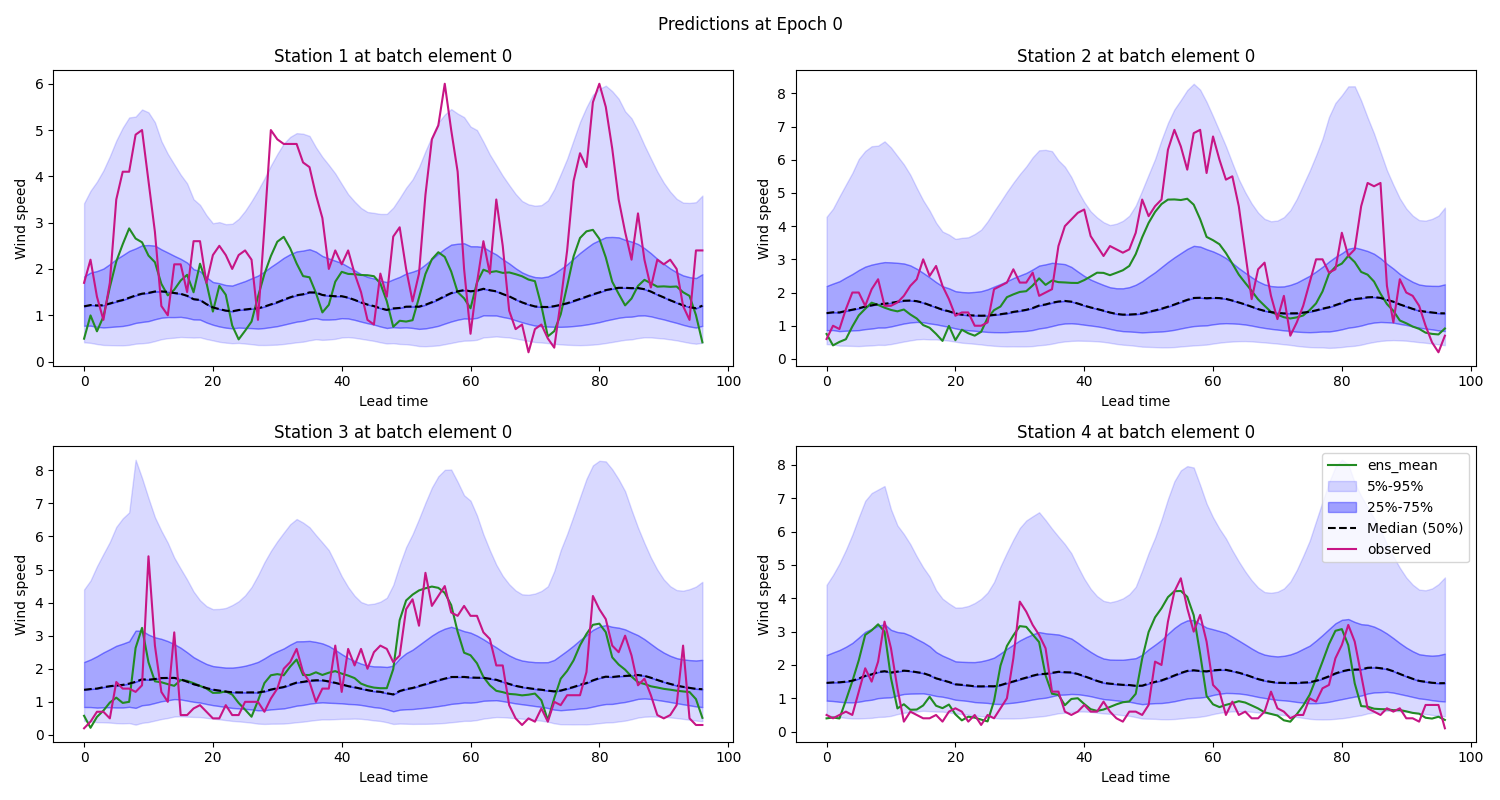
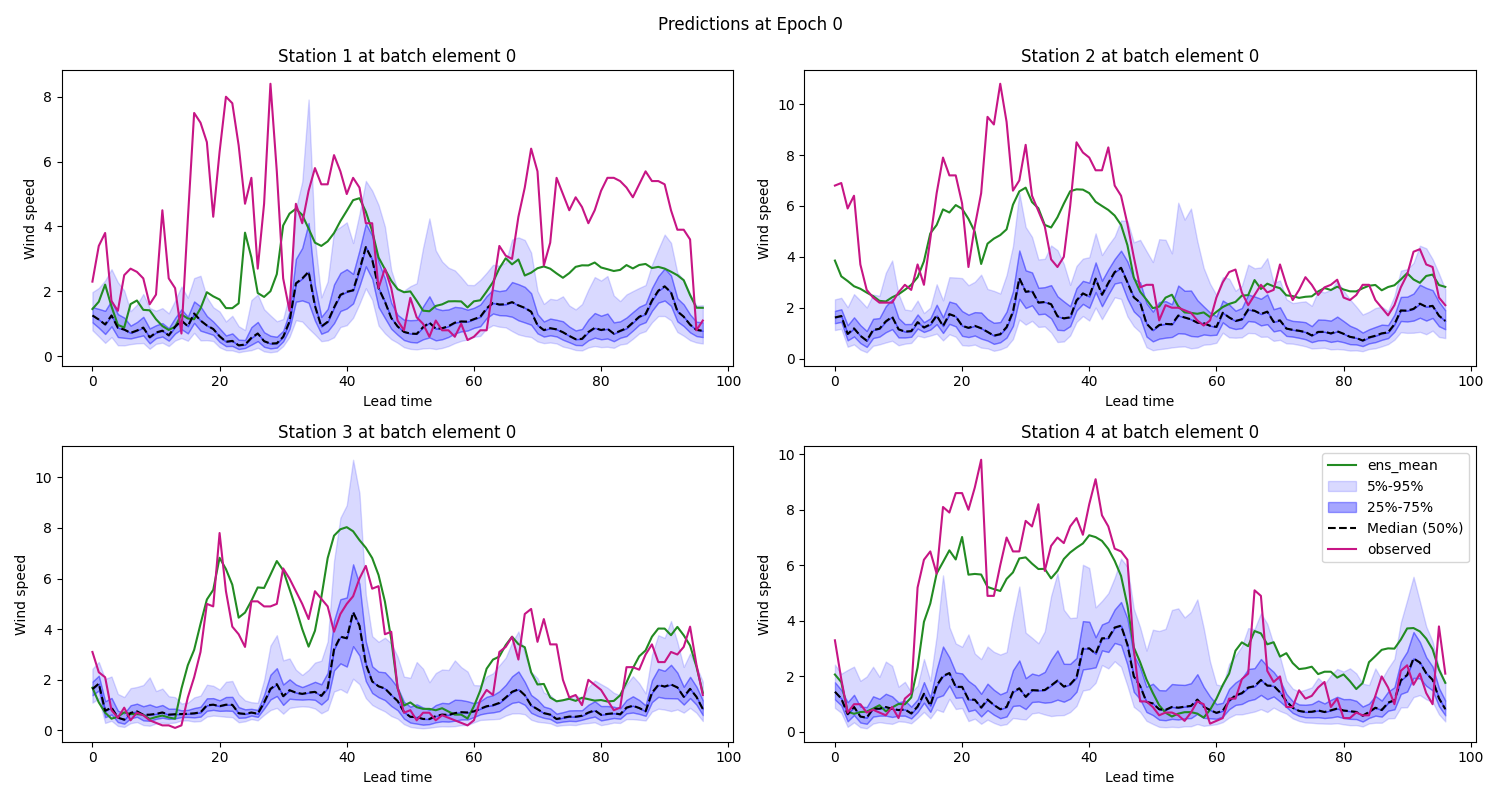
model0 added

diff --git a/spatiotemporal_postprocessing/nn/models.py b/spatiotemporal_postprocessing/nn/models.py
@@ -1,10 +1,12 @@
 from einops import rearrange
-import torch.nn as nn 
+from einops.layers.torch import Rearrange
+import torch.nn as nn
 import torch
 from typing import Literal
 from tsl.nn.layers import GatedGraphNetwork, NodeEmbedding, BatchNorm
 from tsl.nn.models import GraphWaveNetModel
 from spatiotemporal_postprocessing.nn.probabilistic_layers import dist_to_layer
+from spatiotemporal_postprocessing.nn.prototypes import TCNLayer
 
 
 class LayeredGraphRNN(nn.Module):
@@ -144,22 +146,131 @@ class MLP(nn.Module):
     
     
 class WaveNet(nn.Module):
-    
+
     def __init__(self, input_size, time_steps, hidden_size, n_stations, output_dist, ff_size=256, n_layers=6, temporal_kernel_size=3, spatial_kernel_size=2, **kwargs):
         super().__init__()
-    
-        self.wavenet = GraphWaveNetModel(input_size=input_size, 
+
+        self.wavenet = GraphWaveNetModel(input_size=input_size,
                           output_size=hidden_size,
-                          horizon=time_steps, 
-                          hidden_size=hidden_size, 
+                          horizon=time_steps,
+                          hidden_size=hidden_size,
                           ff_size=ff_size,
                           n_layers=n_layers,
-                          temporal_kernel_size=temporal_kernel_size, spatial_kernel_size=spatial_kernel_size, 
+                          temporal_kernel_size=temporal_kernel_size, spatial_kernel_size=spatial_kernel_size,
                           dilation=2, dilation_mod=3, n_nodes=n_stations)
         self.output_distr = dist_to_layer[output_dist](input_size=hidden_size)
-        
+
     def forward(self, x, edge_index):
         output = self.wavenet(x, edge_index)
-        
+
+        return self.output_distr(output)
+
+
+class Model0TCN(nn.Module):
+    """
+    TCN-only baseline model (Model0) for statistical postprocessing.
+
+    Architecture:
+    - No graph operations: Processes each station's time series independently
+    - Temporal modeling only: Uses stacked TCN layers with causal convolutions
+    - Station-independent: No message passing or spatial aggregation
+    - Probabilistic output: Outputs LogNormal distribution parameters
+
+    The model processes input shape [batch, time, stations, features] by:
+    1. Reshaping to [batch*stations, features, time] for Conv1d processing
+    2. Applying input encoder to project features to hidden dimension
+    3. Processing through stacked TCN layers with increasing dilation rates
+    4. Reshaping back to [batch, time, stations, hidden]
+    5. Applying distribution layer to get probabilistic outputs
+
+    Args:
+        input_size: Number of input features per station
+        hidden_channels: Hidden dimension size
+        n_stations: Number of weather stations
+        output_dist: Distribution type (e.g., 'LogNormal')
+        num_layers: Number of TCN layers (default: 4)
+        kernel_size: Convolution kernel size (default: 3)
+        dropout_p: Dropout probability (default: 0.2)
+    """
+
+    def __init__(self, input_size, hidden_channels, n_stations, output_dist,
+                 num_layers=4, kernel_size=3, dropout_p=0.2, **kwargs):
+        super().__init__()
+
+        self.n_stations = n_stations
+        self.hidden_channels = hidden_channels
+
+        # Input encoder: project features to hidden dimension
+        self.encoder = nn.Linear(input_size, hidden_channels)
+
+        # Rearrange layers for shape transformations
+        # From [batch, time, stations, features] to [batch*stations, features, time]
+        self.rearrange_for_tcn = Rearrange('b t n c -> (b n) c t')
+        # From [batch*stations, channels, time] back to [batch, time, stations, channels]
+        self.rearrange_from_tcn = Rearrange('(b n) c t -> b t n c', n=n_stations)
+
+        # Build TCN layers with exponentially increasing dilation rates
+        tcn_layers = []
+        for layer_idx in range(num_layers):
+            dilation = 2 ** layer_idx  # 1, 2, 4, 8, ...
+            in_channels = hidden_channels  # All layers use same hidden dimension
+
+            tcn_layers.append(
+                TCNLayer(
+                    in_channels=in_channels,
+                    out_channels=hidden_channels,
+                    kernel_size=kernel_size,
+                    dilation=dilation,
+                    dropout_p=dropout_p,
+                    causal_conv=True  # Ensure no future information leakage
+                )
+            )
+
+        self.tcn_layers = nn.ModuleList(tcn_layers)
+
+        # Probabilistic output layer
+        self.output_distr = dist_to_layer[output_dist](input_size=hidden_channels)
+
+    def forward(self, x, edge_index=None):
+        """
+        Forward pass through the TCN baseline.
+
+        Args:
+            x: Input tensor of shape [batch, time, stations, features]
+            edge_index: Graph edge indices (accepted but ignored for compatibility)
+
+        Returns:
+            Distribution object with parameters of shape [batch, time, stations, output_dim]
+        """
+        # Store input shape for reshaping
+        batch_size, time_steps, num_stations, num_features = x.size()
+
+        # Encode input features to hidden dimension
+        # Shape: [batch, time, stations, features] -> [batch, time, stations, hidden]
+        x = self.encoder(x)
+
+        # Reshape for Conv1d: [batch, time, stations, hidden] -> [batch*stations, hidden, time]
+        x = self.rearrange_for_tcn(x)
+
+        # Apply TCN layers with skip connections
+        skips = []
+        for tcn_layer in self.tcn_layers:
+            # TCNLayer returns (residual_output, skip_output)
+            x, skip = tcn_layer(x)
+            skips.append(skip)
+
+        # Aggregate skip connections and final output
+        # Stack and sum all skip connections
+        skips_stack = torch.stack(skips, dim=-1)  # [batch*stations, hidden, time, num_layers]
+        skips_sum = skips_stack.sum(dim=-1)  # [batch*stations, hidden, time]
+
+        # Combine skip connections with final layer output
+        output = skips_sum + x  # [batch*stations, hidden, time]
+
+        # Reshape back to original structure
+        # [batch*stations, hidden, time] -> [batch, time, stations, hidden]
+        output = self.rearrange_from_tcn(output)
+
+        # Apply distribution layer to get probabilistic outputs
         return self.output_distr(output)
    

diff --git a/spatiotemporal_postprocessing/nn/__init__.py b/spatiotemporal_postprocessing/nn/__init__.py
@@ -1,12 +1,12 @@
 import sys
 
-from .models import BiDirectionalSTGNN, MLP, WaveNet
+from .models import BiDirectionalSTGNN, MLP, WaveNet, Model0TCN
 from .prototypes import TCN_GNN
 
 def get_model(model_type, **kwargs):
-     
+
     model_class = getattr(sys.modules[__name__], model_type)
-    
+
     try:
         return model_class(**kwargs)
     except:
